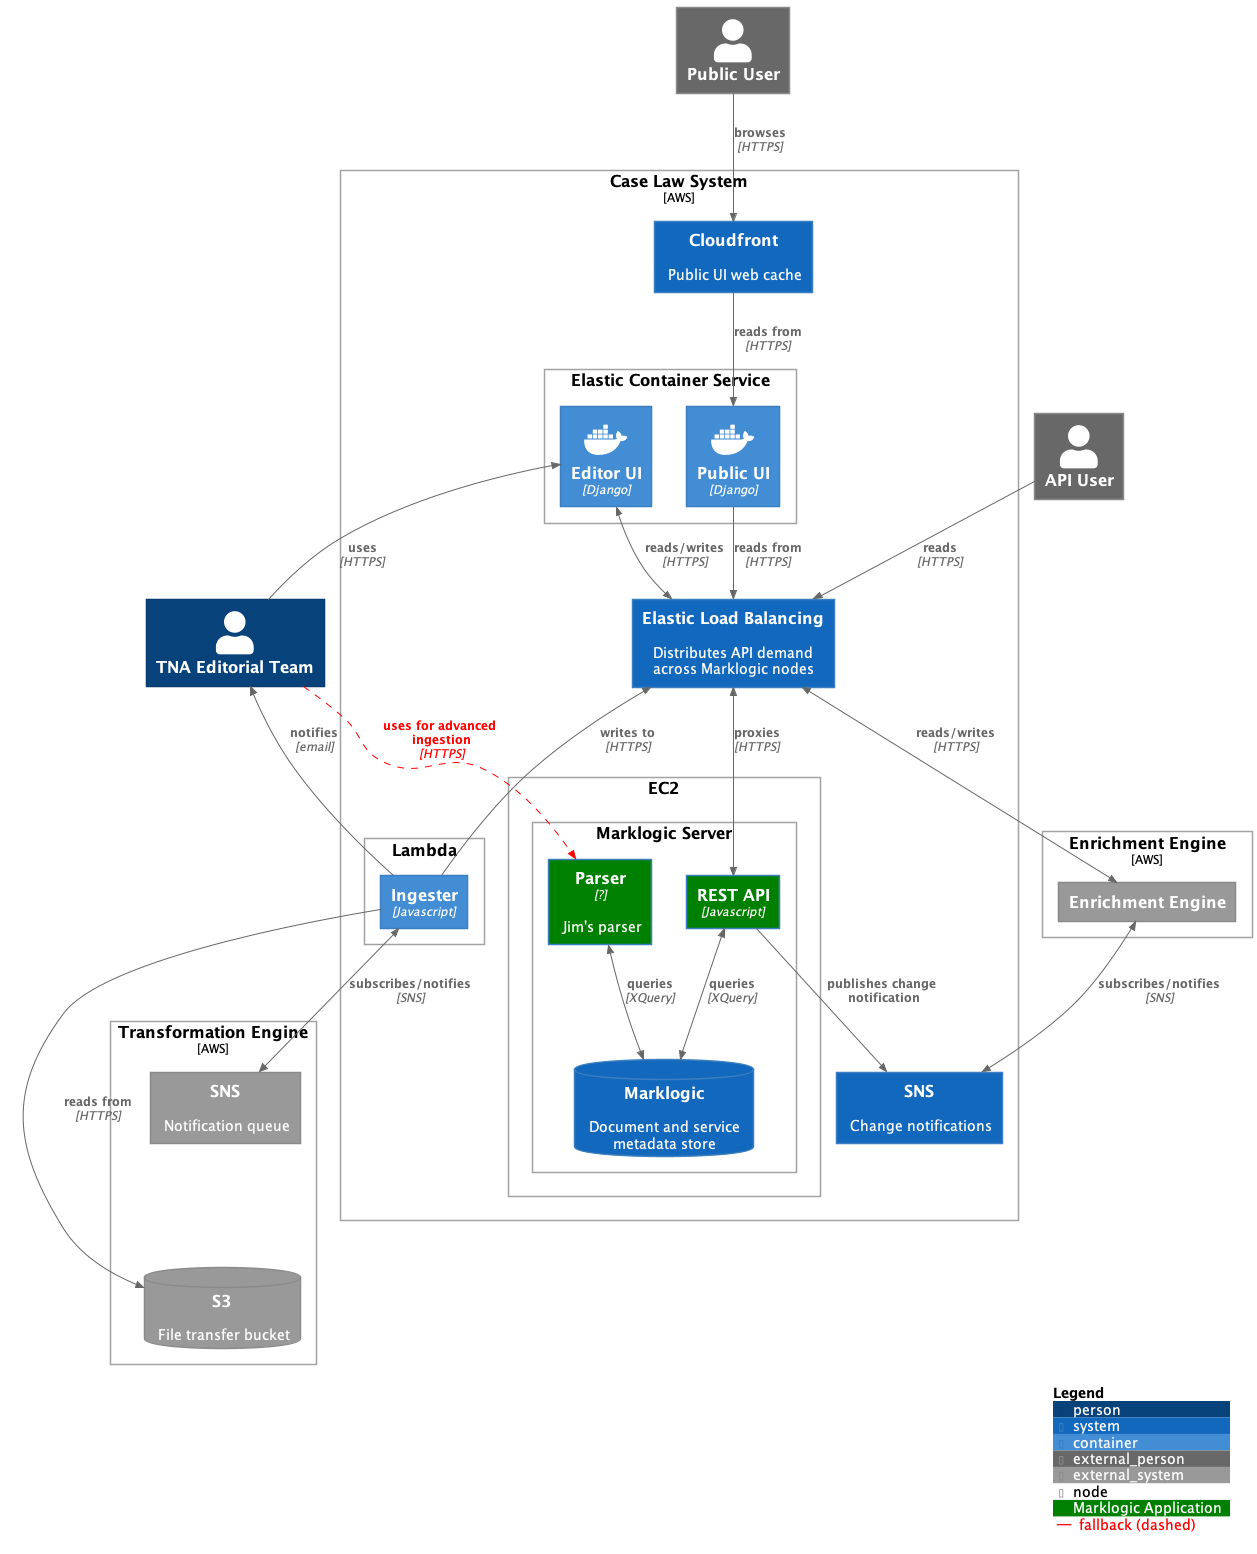
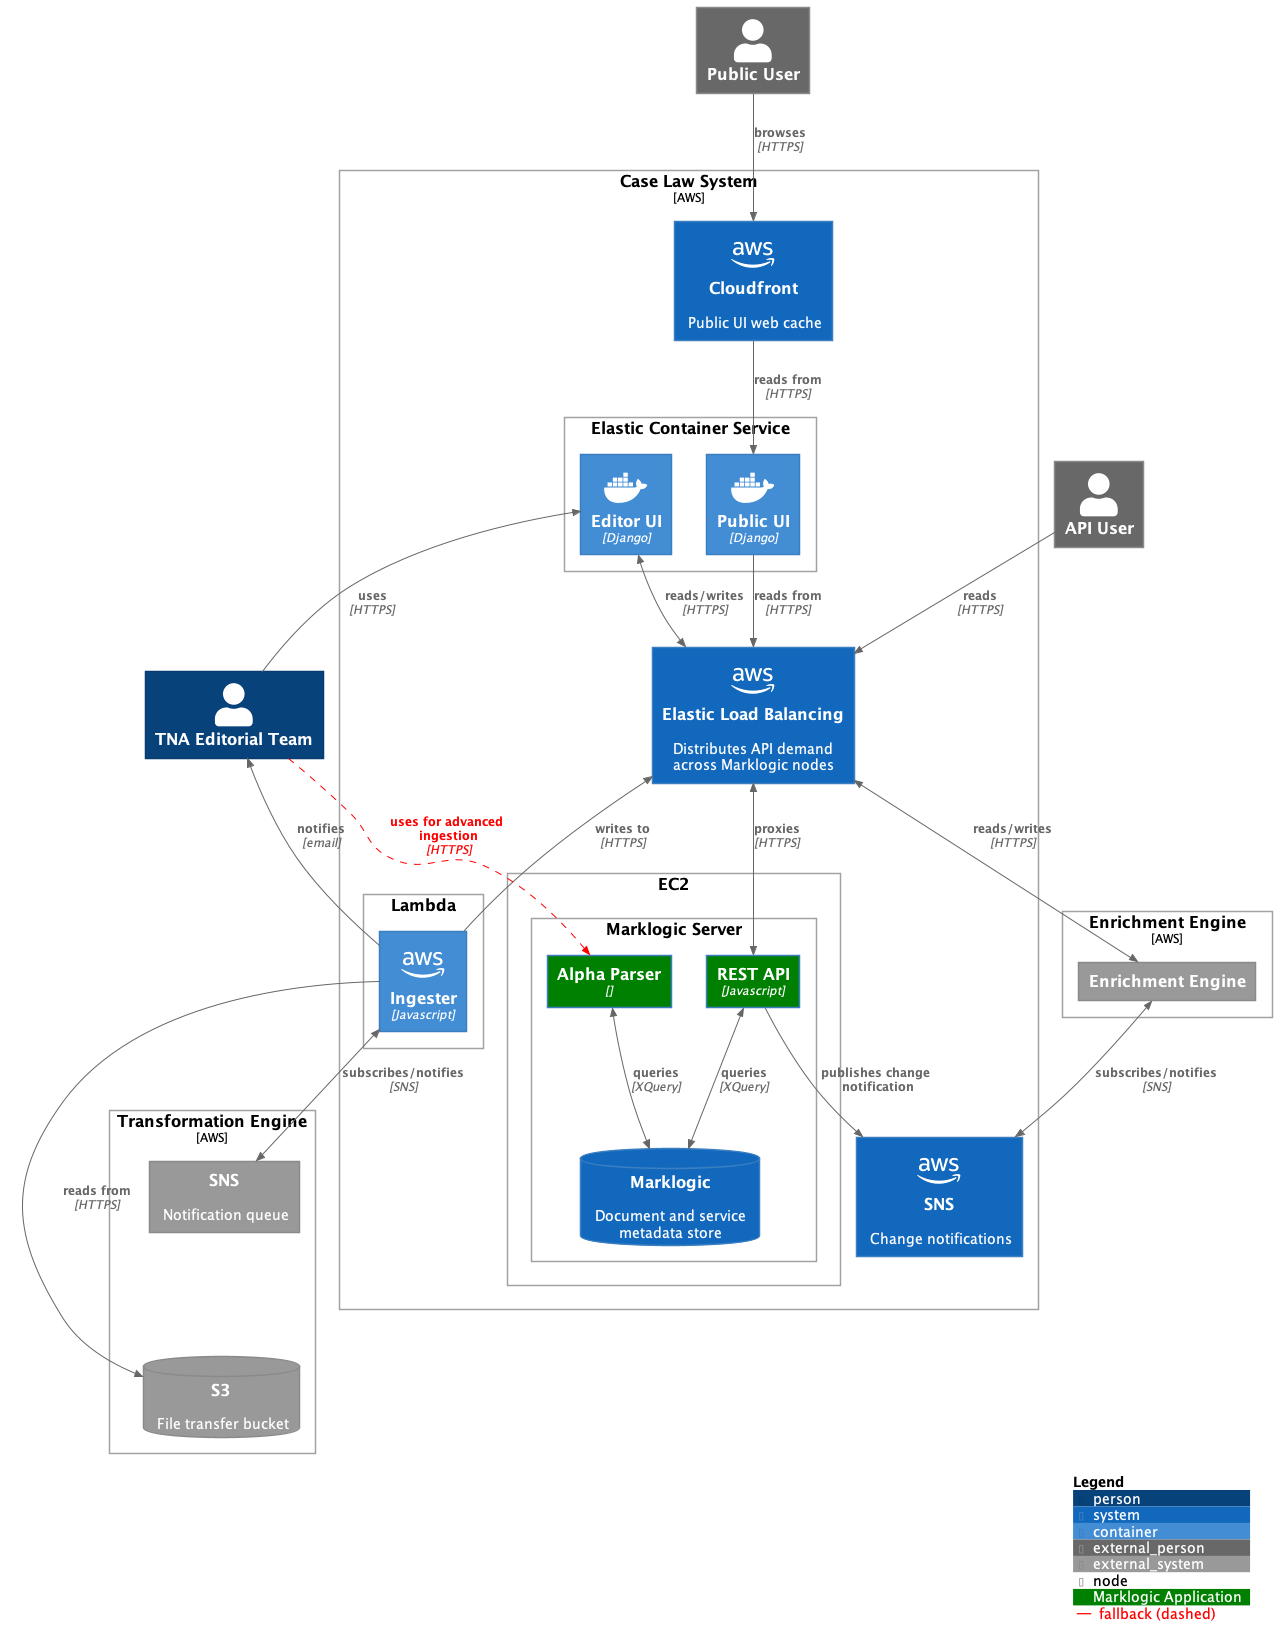
Add container diagram and update README to include it
Also made diagrams collapsible

diff --git a/README.md b/README.md
@@ -15,13 +15,22 @@ This is the central repository for the Case Law Public Access service. It includ
 * [Frontend Prototypes](https://github.com/nationalarchives/ds-caselaw-frontend)
 * [Marklogic Prototype](https://github.com/mangiafico/tna-judgments-website)
 
+## Diagrams
 
-# Diagrams
+<details>
+  <summary>System Landscape Diagram</summary>
 
-## System Landscape
+  ![System Landscape Diagram](doc/arch/images/System%20Landscape.png)
+</details>
 
-![System Landscape Diagram](doc/arch/images/System%20Landscape.png)
+<details>
+  <summary>Container Diagram</summary>
 
-## Deployment
+  ![Container Diagram](doc/arch/images/Container%20Diagram.png)
+</details>
 
-![Deployment Diagram](doc/arch/images/Deployment%20Diagram.png)
+<details>
+  <summary>Deployment Diagram</summary>
+
+  ![Deployment Diagram](doc/arch/images/Deployment%20Diagram.png)
+</details>
